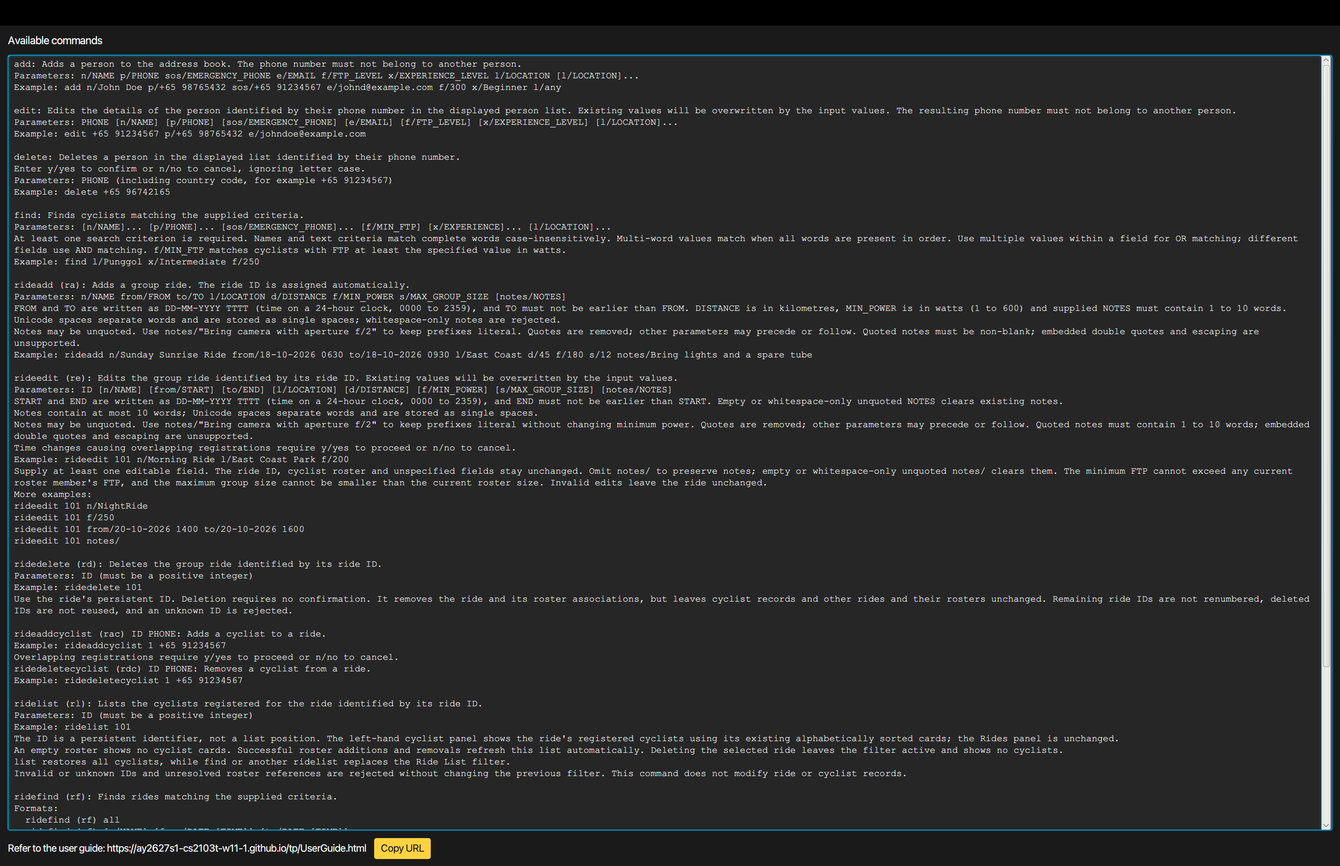
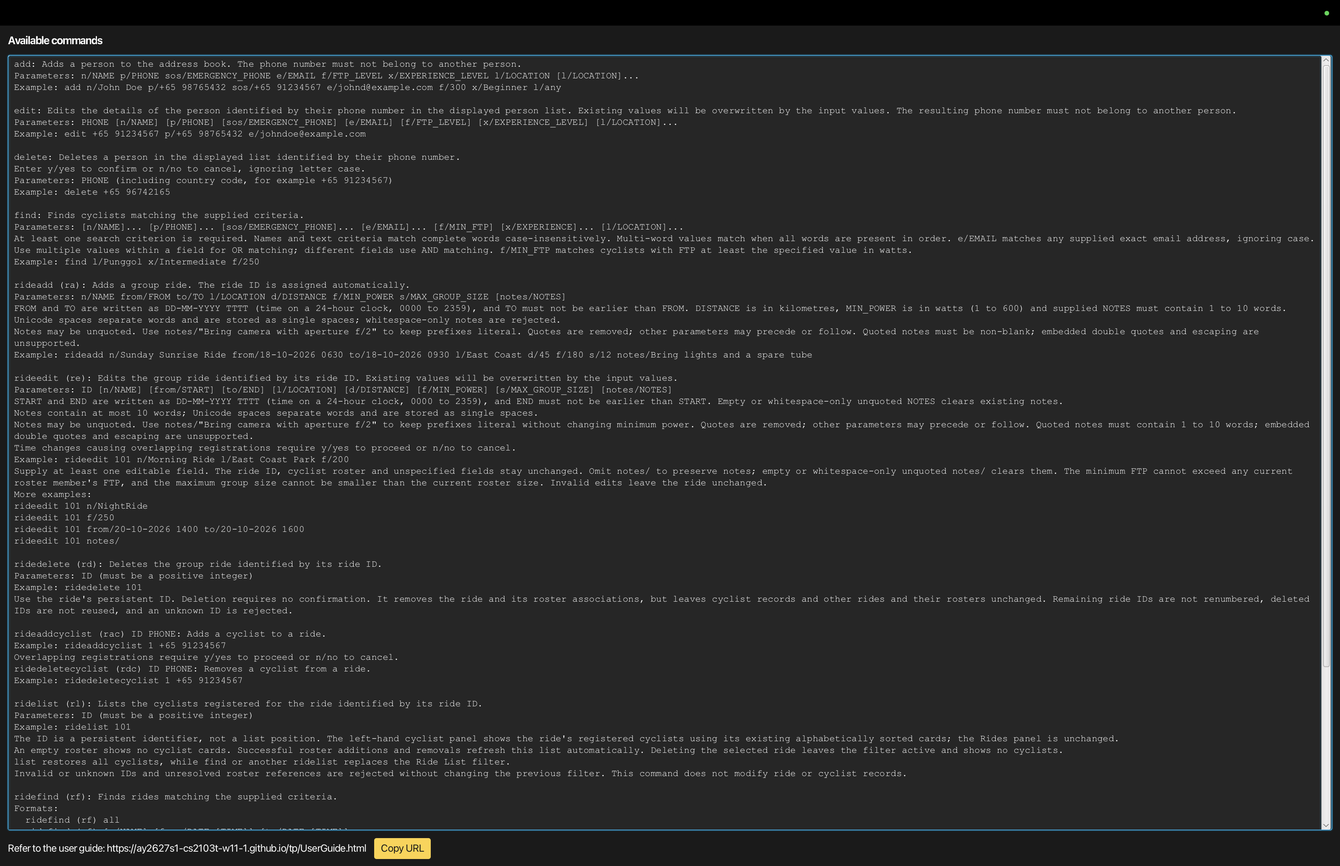
Align User Guide with current app behaviour
The User Guide describes names as rejecting all punctuation and gives
outdated guidance for oversized ride IDs. The distinction between
listing rides and viewing their cyclists also needs clearer emphasis.

These gaps can cause organisers to avoid supported inputs or expect
different results from the commands they enter.

Document accepted name punctuation, naming alternatives and location
restrictions. Clarify complete-word searches, repeated spaces and the
different treatment of leading zeroes in phone numbers.

Explain ridefind all separately from ridelist, and update the ride ID
error guidance. Add a dedicated Coming soon section that distinguishes
planned ride searches from features available in this release.

Refresh the Help screenshots to include email searching and retain
full-size links. Keep explanations task-focused, with concrete examples
and practical alternatives for unsupported inputs.

diff --git a/docs/UserGuide.md b/docs/UserGuide.md
@@ -53,6 +53,7 @@ You do not need programming experience. Start with [Quick start](#quick-start), 
 Type each command in the command box and press **Enter**.
 
 1. Enter `list`. All saved cyclists appear in alphabetical order.
+1. Enter `ridefind all`. All saved group rides appear in the Rides panel.
 1. Enter `find n/Alex`. With the sample data, only Alex Tan appears. This hides other cyclists; it does not delete them.
 1. Enter `list` again to bring everyone back.
 1. Enter `help` to open the Full help window. Close that window to return to the main window.
@@ -99,6 +100,8 @@ they have passed; Cyclique allows past rides.
 
 A **filter** hides records that do not match your search. It does not remove them from Cyclique.
 The two panels have separate filters: `list` does not reset a ride search.
+To list **all group rides**, use `ridefind all` (or `rf all`). `ridelist ID` shows the **cyclists on one ride**
+instead; it does not list group rides.
 
 Cyclists are sorted alphabetically by full name, ignoring case. Names that are identical ignoring case
 keep their stored order. Card indexes change with the displayed list; use the cyclist's **own phone number**
@@ -111,6 +114,23 @@ even after deleting rides, clearing data or restarting Cyclique.
 A **roster** is a ride's list of registered cyclists. It shows their own phone numbers.
 **SOS** on a cyclist card means their emergency contact number. **FTP** (Functional Threshold Power)
 is the cyclist's power level in watts; Cyclique compares it with a ride's minimum power before registration.
+
+### Choose names and locations
+
+**Cyclist names do not have to be legal names.** Use the name the cyclist wants your group to use.
+Names can contain Unicode letters (including accented letters), digits and spaces. A straight hyphen
+(`-`) or apostrophe (`'`) is allowed between letters or digits, as in `Tan Wei-Ling` or `John O'Connor`.
+Do not put either character at the start or end, beside a space, or next to another hyphen or apostrophe.
+Use a straight apostrophe (`'`), rather than a curly one (`’`).
+
+Cyclist names and ride names follow the **same rules**. Slashes (`/`), full stops (`.`) and other
+punctuation are not accepted. For example, you cannot enter `s/o` as part of a cyclist's name;
+choose a name they are comfortable using without the slash. For a ride, use `Punggol-Seletar Loop`
+instead of `Punggol/Seletar Loop`.
+
+**Locations** accept English letters (`A–Z`, `a–z`), digits, spaces, straight hyphens and straight apostrophes.
+The `@` character is not accepted: use `Hub at Punggol`, rather than `Hub @ Punggol`.
+These rules apply when adding, editing and searching.
 
 ## Plan a ride and register a cyclist
 
@@ -191,16 +211,17 @@ Enter `help`, press **F1**, or choose **Help → Full help...**. The Full help w
 command's format, fields and an example. The result box shows `Opened help window.`
 If the window is already open, Cyclique brings it into focus.
 
-<a href="images/helpMessage.png"><img src="images/helpMessage.png" alt="Full help window showing command formats, ride command aliases and the Cyclique guide URL with a Copy URL button" /></a>
+<a href="images/helpMessage.png"><img src="images/helpMessage.png" alt="Full help window with a scrollable command list, including email search, and the guide URL and Copy URL button below it" /></a>
 
-*Use **Copy URL** at the bottom of the window to copy the link to this guide.
-Select the screenshot to view it at full resolution.*
+*Scroll through the command list for more help. Use **Copy URL** below the list to copy the link to this guide.
+Select the screenshot to open it at full size.*
 
 You can also choose a command from the **Help** menu to start filling it in.
 
-![Help menu showing command formats, ride command aliases and Full help](images/helpDropdown.png)
+<a href="images/helpDropdown.png"><img src="images/helpDropdown.png" alt="Help menu showing command formats, including the email-search field, ride command aliases and Full help" /></a>
 
-*Selecting a menu entry puts the command in the command box; it does not run it.*
+*Selecting a menu entry puts the command in the command box; it does not run it.
+Select the screenshot to open it at full size.*
 
 For `add` and `rideadd`, the required prefixes are filled in too. Type your values after them,
 add any optional fields you need, then press **Enter**. For roster commands, type the ride ID
@@ -214,13 +235,13 @@ Adds a cyclist to Cyclique.
 
 Field | Meaning and rules
 ------|------------------
-`n/NAME` | The cyclist's name. It may contain Unicode letters (including accented letters), digits and spaces, with combining marks attached to letters or digits. It must start with a letter or digit; blank names and punctuation are rejected. For example, `José Tan` is accepted.
-`p/PHONE` | A unique phone number using a `+`, a 1–3 digit country code, one space and at least 3 digits, such as `+65 98765432`. Parentheses, hyphens and blank values are rejected. Leading zeros in the country code are ignored and removed when the number is saved, so `+065 98765432` is the same number as `+65 98765432`. The country code must contain a non-zero digit, so `+0 000` and `+00 98765432` are rejected. Leading zeros in the number are kept, because they can be significant: `+39 0612345678` is saved as typed and is a different number from `+39 612345678`. The number must not belong to another cyclist, including cyclists hidden by a filter.
+`n/NAME` | The name the cyclist wants your group to use; a legal name is not required. Start with a letter or digit. Letters (including accented letters), digits and spaces are allowed, with straight hyphens and apostrophes joining letters or digits. For example, `José Tan`, `Tan Wei-Ling` and `John O'Connor` are accepted. See [Choose names and locations](#choose-names-and-locations) for restrictions, including `/`.
+`p/PHONE` | A unique phone number using `+`, a 1–3 digit country code, exactly one space and at least 3 digits, such as `+65 98765432`. The country code must contain a non-zero digit. Parentheses, hyphens and blank values are rejected. See [Phone numbers and leading zeroes](#phone-numbers-and-leading-zeroes) below.
 `sos/EMERGENCY_PHONE` | The cyclist's emergency contact phone number, displayed as **SOS** on their card. Required for new cyclists. It follows the same format as `p/` but may be shared by multiple cyclists and does not determine duplicate cyclists.
 `e/EMAIL` | A valid email address, such as `johnd@example.com`. It must be unique across all cyclists, including those hidden by a filter; comparisons ignore letter case.
 `f/FTP_LEVEL` | Functional Threshold Power (FTP): a whole number from 1 to 600, in watts.
 `x/EXPERIENCE_LEVEL` | `Beginner`, `Intermediate` or `Advanced`, ignoring case.
-`l/LOCATION` | A non-blank preferred cycling location containing only English letters (`A–Z`, `a–z`), digits, spaces, hyphens or apostrophes. At least one is required. Repeat `l/` for multiple locations, or use `l/any` alone to indicate no location preference. `any` ignores case and cannot be combined with another location.
+`l/LOCATION` | A non-blank preferred cycling location containing only English letters (`A–Z`, `a–z`), digits, spaces, straight hyphens or straight apostrophes. `@` and `/` are not accepted. At least one is required. Repeat `l/` for multiple locations, or use `l/any` alone to indicate no location preference. `any` ignores case and cannot be combined with another location.
 
 All fields are required. Only `l/` may be repeated; repeating any other prefix is rejected.
 Prefixes can be entered in any order. Cyclists may share a name or emergency contact number,
@@ -242,6 +263,22 @@ list, places the new card in alphabetical order and saves the data automatically
 Missing required fields, blank values, invalid values and repeated single-valued prefixes are rejected.
 A phone or email conflict reports `Another cyclist already has this phone number or email.`
 These rejected commands leave existing records unchanged and do not add a cyclist.
+
+#### Phone numbers and leading zeroes
+
+Enter the cyclist's own number accurately: it identifies them in `edit`, `delete` and roster commands.
+Cyclique checks its format, but does not check whether the number is assigned or in use.
+
+| What you enter | How Cyclique treats it |
+| --- | --- |
+| `+065 91234561` | Saved as `+65 91234561`. Zeroes at the start of the country code are removed. If Alex already has that number, adding another cyclist with it is rejected. |
+| `+65 091234561` | The zero after the space is kept. This is a different number from `+65 91234561`; do not add or remove digits when identifying a cyclist. |
+| `+39 0612345678` | Saved as typed. A leading zero in the number itself can be significant. |
+| `+0 000` or `+00 98765432` | Rejected because the country code contains only zeroes. |
+
+The same rules apply to SOS numbers and phone numbers used in searches or roster commands.
+A cyclist's own phone must be unique across all saved cyclists, including those hidden by a filter.
+SOS numbers may be shared.
 
 ### Listing all cyclists: `list`
 
@@ -317,7 +354,7 @@ Find cyclists by name, phone number, email address, emergency contact number or 
 Field | Meaning and rules
 ------|------------------
 `n/NAME_KEYWORD` | A single name word or multiple complete name words. Matching is case-insensitive and each supplied word must appear as a complete word in the same order; `n/hans` matches `Hans` but `n/Han` does not. A multi-word value such as `n/John Doe` matches names containing `John` followed by `Doe`, even when other words appear between them. Hyphens and apostrophes separate words, so `n/Ling` and `n/Wei-Ling` both match `Tan Wei-Ling`, and `n/Connor` and `n/O'Connor` both match `John O'Connor`; `n/WeiLing` does not.
-`p/PHONE` | A complete phone number using a `+`, a 1–3 digit country code, one space and at least 3 digits. Matching is exact, ignoring leading zeros in the country code; `p/+65 963` does not match `+65 96320842`, but `p/+065 96320842` does.
+`p/PHONE` | A complete phone number using a `+`, a 1–3 digit country code, one space and at least 3 digits. Matching is exact, ignoring leading zeroes in the country code; `p/+65 963` does not match `+65 96320842`, but `p/+065 96320842` does.
 `sos/EMERGENCY_PHONE` | A complete emergency contact number using the same validation and exact matching as `p/`. Only cyclists with an emergency number matching the supplied value are shown. Cyclists whose emergency number is missing or different are not shown.
 `e/EMAIL` | An exact email address. Matching ignores letter case, so `e/ALICE@EXAMPLE.COM` matches a stored `alice@example.com`. Repeat `e/` to search for multiple email addresses; a cyclist matches if their email matches any supplied address. Invalid email addresses are rejected.
 `f/MIN_FTP` | A whole number from 1 to 600, inclusive. Matches cyclists whose FTP is greater than or equal to the supplied value in watts; both `f/1` and `f/600` are valid.
@@ -328,6 +365,9 @@ At least one criterion is required. Each prefix may be repeated except `f/`, whi
 within the same field use `OR`, while different fields use `AND`; for example, `find n/Hans n/Bo f/250` matches
 cyclists named `Hans` or `Bo` whose FTP is at least 250 W. Prefix order does not matter. Text after a prefix belongs
 to that field until the next recognised prefix, so full names and locations containing spaces can be entered normally.
+
+Name and location searches ignore repeated spaces between words. They do not require the words to be
+consecutive: `find n/John Doe` also matches `John Wei Doe`. The original name is kept when saved.
 
 The command filters only the displayed cyclist list and does not change saved records. Matching cyclists remain in
 alphabetical order, ignoring case. The result message reports how many cyclists match; an empty result is valid and
@@ -365,7 +405,7 @@ Deletes a cyclist only after you check their details and confirm in the command 
 
 **Format:** `delete PHONE`, then enter a separate confirmation or cancellation reply.
 
-* Use the cyclist's own complete phone number, including country code and exactly one space, for example `+65 98765432`. The country code contains 1–3 digits; the number after the space contains at least 3 digits. Leading zeros in the country code are ignored, so `+065 98765432` identifies the same cyclist as `+65 98765432`; leading zeros in the number are part of the number. Do not use a card index or the `p/` prefix.
+* Use the cyclist's own complete phone number, including country code and exactly one space, for example `+65 98765432`. The country code contains 1–3 digits; the number after the space contains at least 3 digits. Leading zeroes in the country code are ignored, so `+065 98765432` identifies the same cyclist as `+65 98765432`; leading zeroes in the number are part of the number. Do not use a card index or the `p/` prefix.
 * A malformed target reports the specific phone-validation error; omitting the target reports the command usage.
 * The number must identify exactly one cyclist in the **displayed list**. A cyclist hidden by a filter cannot be deleted; use `list` to show all cyclists first. Multiple displayed matches are rejected.
 * The result box shows `Delete this cyclist?` followed by the target's details, including their emergency number, and warns `This also removes them from all ride rosters.` No cyclist, roster or saved data changes at this stage.
@@ -421,10 +461,10 @@ Adds a group ride that an organiser plans to lead.
 
 Field | Meaning and rules
 ------|------------------
-`n/NAME` | The name of the ride. Unicode letters (including accented letters), digits and spaces, with combining marks attached to letters or digits. It must start with a letter or digit; blank names and punctuation are rejected.
+`n/NAME` | A ride name following the [same rules as cyclist names](#choose-names-and-locations). `Punggol-Seletar Loop` and `Mother's Day Ride` are accepted. Slashes (`/`) and full stops (`.`) are not accepted; do not use a leading, trailing or repeated hyphen or apostrophe.
 `from/FROM` | When the ride starts, written as `DD-MM-YYYY TTTT` (day-month-year, followed by exactly one space and the time). `TTTT` uses the 24-hour clock from `0000` to `2359`, for example `25-10-2026 0630`. Both the date and time are required. The date must be a real calendar date, including the correct leap-year rules.
 `to/TO` | When the ride ends, in the same format as `from/`. It must not be earlier than `from/` (the same time is allowed).
-`l/LOCATION` | One non-blank location. English letters (`A–Z`, `a–z`), digits (`0–9`), spaces, hyphens and apostrophes only.
+`l/LOCATION` | One non-blank location. English letters (`A–Z`, `a–z`), digits (`0–9`), spaces, straight hyphens and straight apostrophes only. Use `Hub at Punggol`, not `Hub @ Punggol`; `@` and `/` are not accepted.
 `d/DISTANCE` | The distance in kilometres, from `0.01` to `999999.99`. Use 1–6 digits before the decimal point and, optionally, 1–2 digits after it, such as `45` or `45.5`.
 `f/MIN_POWER` | The minimum power a cyclist needs to join, in watts. Use 1–3 digits representing a whole number from 1 to 600, the same range as a cyclist's FTP.
 `s/MAX_GROUP_SIZE` | The most cyclists that can join. Use 1–9 digits representing a whole number from 1 to 999999999.
@@ -509,27 +549,44 @@ To clear existing notes, use `rideedit ID notes/` without quotes.
 
 These rejected commands add no ride and consume no ID. In unquoted values, unsupported prefix-like text is not checked separately and becomes part of the preceding value (or the text before the first prefix). For example, `notes/Bring lights q/test` can be accepted as notes containing `q/test`; it is not a separate parameter. Unquoted text after a recognised prefix belongs to that value until the next recognised prefix.
 
+### Listing all group rides: `ridefind all`
+
+Show every saved ride in the right-hand Rides panel, including rides hidden by an earlier search.
+
+**Format:** `ridefind all` (or `rf all`)
+
+Enter the command and press **Enter**. The result box reports the number of rides listed, for example
+`2 ride(s) listed!` with the fresh sample data. The cyclist panel and all saved records stay unchanged.
+
+Use [`ridelist ID`](#listing-cyclists-registered-for-a-ride-ridelist) when you want the cyclists registered
+for one ride, rather than the list of rides.
+
 ### Finding group rides: `ridefind`
 
 Finds rides matching one or more supplied criteria and displays the matching rides in the Rides panel.
 
 **Format:** `ridefind [n/NAME] [from/DATE [TIME]] [to/DATE [TIME]] [l/LOCATION] [d/DISTANCE] [f/MIN_POWER] [s/MAX_GROUP_SIZE] [notes/NOTES]`
 
-To list every ride, use `ridefind all`.
+To list every ride without search criteria, use [`ridefind all`](#listing-all-group-rides-ridefind-all).
 
 After `ridefind`, at least one criterion is required; you do not need to supply every field. Alternatively, enter
 `ridefind all` to clear the current ride filter and display every saved ride. Different fields use AND matching, so a
-ride must satisfy every field supplied.
+ride must satisfy every field supplied. For example, `ridefind n/Sunday l/East` requires a matching
+name **and** location. Use each prefix only once; `ridefind n/Sunday n/Saturday` is rejected.
+[Searching several values for one ride field is planned](#coming-soon).
+
 The fields are matched as follows:
 
 * `n/NAME` matches complete words in the ride name in the supplied order, ignoring case. For example,
   `ridefind n/Sunday` matches `Sunday Sunrise Ride`, but `ridefind n/Ride Sunday` does not.
   Hyphens and apostrophes separate words, so `ridefind n/Wei-Ling` and `ridefind n/Wei` both match
-  `Wei-Ling's Ride`, and `ridefind n/Mother` matches `Mother's Day Ride`. `ridefind n/WeiLing` does not.
+  `Wei-Ling's Ride`, and `ridefind n/Mother` matches `Mother's Day Ride`.
+  Fragments such as `n/Lin` and joined spellings such as `n/WeiLing` do not match `Wei-Ling's Ride`.
 * `from/` matches rides starting at or after the supplied date and time.
 * `to/` matches rides ending at or before the supplied date and time.
 * `l/LOCATION` matches complete words in the ride location in the supplied order, ignoring case. Hyphens and
-  apostrophes separate words here too, so `ridefind l/Ris` matches a ride at `Pasir-Ris Park`.
+  apostrophes separate words here too: `ridefind l/East` matches `East Coast Park`, and
+  `ridefind l/Ris` matches `Pasir-Ris Park`. `l/Eas` does not match `East Coast Park`.
 * `d/DISTANCE` and `s/MAX_GROUP_SIZE` use exact numeric matching.
 * `f/MIN_POWER` matches rides whose minimum power is greater than or equal to the supplied value.
 * `notes/NOTES` matches selected complete words from the stored notes, ignoring case. The words must appear in their
@@ -538,8 +595,11 @@ The fields are matched as follows:
   word does not prevent a match, including hyphens, apostrophes and other punctuation. For example,
   `notes/lights` matches `Bring lights!`, and `notes/cyclist` matches `Check the cyclist's helmet`. Rides without
   notes do not match a notes criterion.
-  A punctuation mark can also be searched when it appears as a standalone token, such as `notes/!` for notes
-  containing `Hi ! Bye`; punctuation attached to a word is not searched as a separate token.
+
+You do not need to reproduce repeated spaces in names or locations. For example,
+`ridefind n/morning loop` matches a saved name `Morning  Loop` (with two spaces).
+Words can have other words between them, so `ridefind n/Sunday Ride` matches `Sunday Sunrise Ride`.
+The original name and its spacing are kept when saved.
 
 Use straight or paired curly double quotes to search notes containing recognised prefixes:
 `ridefind notes/"aperture f/2"` or `rf notes/“aperture f/2”`. The outer quotes are removed;
@@ -556,11 +616,16 @@ Both bounds are inclusive. Each prefix can be used only once. Distances are posi
 
 The command updates only the displayed ride list; it does not change or delete saved rides. If no ride matches, the Rides panel is empty and the result message reports `0 ride(s) listed!`. Invalid criteria are rejected without changing the current ride filter.
 
-**Examples** (using the sample rides)
+**Examples**
+
+The sample-data examples work after a fresh launch. Examples needing extra rides say what to add first.
 
 | Your goal | Command and result |
 | --- | --- |
-| Find a ride by its full name | `ridefind n/Sunday Sunrise Ride` shows Sunday Sunrise Ride. |
+| Find a ride by one complete name word | `ridefind n/Sunday` shows the sample Sunday Sunrise Ride. `ridefind n/Sunday Sunrise Ride` still works. |
+| Find a ride by one location word | `ridefind l/East` shows the sample Sunday Sunrise Ride at East Coast Park. |
+| Combine a name and location | `ridefind n/Sunday l/East` requires both fields to match. |
+| Ignore repeated spaces | `ridefind n/morning loop` finds `Morning  Loop`, if you have added a ride with that name. |
 | Find a ride by part of a hyphenated name | `ridefind n/Wei` shows a ride named `Wei-Ling's Ride`, if you have added one. |
 | Look for a reminder | `ridefind notes/lights` shows rides whose notes contain the complete word `lights`, including Sunday Sunrise Ride. |
 | Find notes containing selected words | `ridefind notes/"aperture f/2"` shows rides whose notes contain those words in order, if you have added one. |
@@ -626,7 +691,9 @@ Continuing the separate Ride 3 screenshot walkthrough from [`rideadd`](#adding-a
 
 **If something goes wrong**
 
-* A missing, zero, negative, malformed, overflowing or extra ID argument: `Invalid command format.` followed by the command usage.
+* If you leave out the ride ID, enter `0`, a negative value or extra text, Cyclique shows the command usage.
+* An ID above `2147483647`, such as `rideedit 2147483648 n/Changed`, reports
+  `Ride ID should be a positive whole number no larger than 2147483647.` Use the ID shown on the ride card.
 * An unknown ID, for example `rideedit 999999 n/Morning Ride` when that ID is absent: `Ride with ID 999999 cannot be found.`
 * No editable field after the ID: `At least one field to edit must be provided.`
 * An invalid field value, which reports the same constraint as `rideadd`.
@@ -666,7 +733,15 @@ remain unchanged. Remaining ride IDs are not renumbered, and deleted IDs are nev
 
 The current `ridefind` filter is retained. If a [`ridelist`](#listing-cyclists-registered-for-a-ride-ridelist) selection is showing the deleted ride's cyclists, the left-hand panel becomes empty and does not switch to another ride. Enter `list` to display all saved cyclists again. Other cyclist filters are retained.
 
-A missing, malformed, non-positive, overflowing or additional argument produces `Invalid command format.` followed by the command usage. For example, `ridedelete 1 extra` is invalid. An unknown ID of 1 reports `Ride with ID 1 cannot be found.` Input or missing-ride errors do not change ride or cyclist data, filters or the next ride ID.
+**If something goes wrong**
+
+* If you leave out the ID or enter extra text, such as `ridedelete 1 extra`, Cyclique shows the command usage.
+  Zero, negative values, signs and decimal points are not accepted.
+* An ID above `2147483647`, such as `ridedelete 2147483648`, reports
+  `Ride ID should be a positive whole number no larger than 2147483647.`
+* A valid ID with no saved ride, such as `2147483647` when it has not been assigned, reports that the ride cannot be found.
+
+These errors do not delete anything or change the current filters or next ride ID.
 
 ### Adding a cyclist to a ride: `rideaddcyclist`
 
@@ -728,7 +803,9 @@ To try registration step by step, follow [Plan a ride and register a cyclist](#p
 
 ### Listing cyclists registered for a ride: `ridelist`
 
-Shows the cyclists registered for one ride in the left-hand cyclist panel, so that you can see who is on that ride. No ride or cyclist records are changed.
+Shows the cyclists registered for one ride in the left-hand cyclist panel.
+To display all **group rides** instead, enter [`ridefind all`](#listing-all-group-rides-ridefind-all).
+Neither command changes your saved records.
 
 **Format:** `ridelist ID`
 
@@ -749,7 +826,9 @@ Example: `ridelist 1` (use your ride's actual ID)
 **If something goes wrong**
 
 * An unknown ride ID, such as `999999`, reports `Ride with ID 999999 cannot be found.`
-* A missing, malformed, zero, negative, overflowing or extra argument produces the invalid-command-format message with the command usage.
+* If you leave out the ID or enter zero, a negative value or extra text, Cyclique shows the command usage.
+* An ID above `2147483647`, such as `ridelist 2147483648`, reports
+  `Ride ID should be a positive whole number no larger than 2147483647.`
 * If a phone number on the roster no longer matches any cyclist, Cyclique reports `Cannot list ride: a registered cyclist cannot be found.`
 
 After any of these errors, the previous filter and all ride and cyclist data stay unchanged.
@@ -818,17 +897,17 @@ Older cyclist records without an emergency number load with **SOS: Not provided*
 Use `edit PHONE sos/EMERGENCY_PHONE` to add one. Editing another field keeps the number absent.
 Data files from before rides were supported load with no rides.
 
-Cyclique now treats a country code with leading zeros as the same country code, so `+065 91234561` and
+Cyclique now treats a country code with leading zeroes as the same country code, so `+065 91234561` and
 `+65 91234561` are the same phone number. Most older files are unaffected, but a file will not load if it contains:
 
-* a cyclist's phone or SOS number whose country code is all zeros, such as `+0 123` or `+00 98765432`; or
-* two cyclists whose phone numbers differ only by zeros at the start of the country code, such as
+* a cyclist's phone or SOS number whose country code is all zeroes, such as `+0 123` or `+00 98765432`; or
+* two cyclists whose phone numbers differ only by zeroes at the start of the country code, such as
   `+65 91234561` and `+065 91234561`.
 
 Cyclique shows the fatal error dialog described in [Editing the data file](#editing-the-data-file) and does not
 change the file. To fix it, back up the file, then edit a copy: replace each all-zero country code with the correct
 one, and for two cyclists with the same number, correct the wrong number or delete the duplicate record, so that each
-`phone` is unique. Leading zeros in the number itself, such as `+65 00000000` or `+39 0612345678`, still load
+`phone` is unique. Leading zeroes in the number itself, such as `+65 00000000` or `+39 0612345678`, still load
 unchanged. Replace the original with the corrected copy and relaunch Cyclique.
 
 ### Editing the data file
@@ -852,12 +931,6 @@ Blank notes or notes exceeding ten words also prevent loading, including notes w
 Cyclique does not discard or shorten them for you.
 
 ## Troubleshooting and FAQ
-
-### Coming soon
-
-Future versions may allow you to search for a specific cyclist's phone number across all ride rosters.
-Currently, use `ridelist ID` to display the cyclists registered for a particular ride and check the roster,
-or use `ridefind all` to display every ride and inspect the roster entries visually.
 
 | Problem | What to do |
 | --- | --- |
@@ -884,6 +957,15 @@ restore a backup made before the deletion.
 Include the command you entered, what you expected and what happened. Use fictional contact details
 and remove personal information from screenshots or data files before sharing them.
 
+## Coming soon
+
+The following improvements are planned for future versions and **are not available in this release**.
+
+| Planned improvement | What you can do now |
+| --- | --- |
+| **Search several values for one ride field.** For example, find Sunday or Saturday rides in one search. | Each `ridefind` prefix can be used only once, so `ridefind n/Sunday n/Saturday` is rejected. Run `ridefind n/Sunday` and `ridefind n/Saturday` separately; each search replaces the previous results. Cyclist `find` already supports repeated name fields. |
+| **Find rides by a cyclist's phone number.** Show all rides that include that cyclist. | Enter `ridefind all` and check the phone numbers under **Roster** on each ride card. Use `ridelist ID` to see the cyclist details for one ride. Phone-number searches are not supported by `ridefind` yet. |
+
 ## Command summary
 
 Use a full command name **or** its alias, for example `ridefind all` or `rf all`.
@@ -902,7 +984,8 @@ Task | Format and example
 [Help](#viewing-help-help) | `help`<br> or press `F1`, or choose **Help → Full help...**
 [Exit](#exiting-the-program-exit) | `exit`
 [Add ride](#adding-a-group-ride-rideadd) | `rideadd n/NAME from/FROM to/TO l/LOCATION d/DISTANCE f/MIN_POWER s/MAX_GROUP_SIZE [notes/NOTES]`<br> e.g., `rideadd n/Sunday Sunrise Ride from/25-10-2026 0630 to/25-10-2026 0930 l/East Coast Park d/45 f/180 s/3 notes/Bring lights and a spare tube`
-[Find rides](#finding-group-rides-ridefind) | `ridefind all`<br>`ridefind [n/NAME] [from/DATE [TIME]] [to/DATE [TIME]] [l/LOCATION] [d/DISTANCE] [f/MIN_POWER] [s/MAX_GROUP_SIZE] [notes/NOTES]`<br> e.g., `ridefind all`, `ridefind from/25-10-2026 to/25-10-2026 f/180`
+[List all rides](#listing-all-group-rides-ridefind-all) | `ridefind all` or `rf all`
+[Find rides](#finding-group-rides-ridefind) | `ridefind [n/NAME] [from/DATE [TIME]] [to/DATE [TIME]] [l/LOCATION] [d/DISTANCE] [f/MIN_POWER] [s/MAX_GROUP_SIZE] [notes/NOTES]`<br> e.g., `ridefind n/Sunday l/East`, `ridefind notes/"aperture f/2"`
 [Edit ride](#editing-a-group-ride-rideedit) | `rideedit ID [n/NAME] [from/START] [to/END] [l/LOCATION] [d/DISTANCE] [f/MIN_POWER] [s/MAX_GROUP_SIZE] [notes/NOTES]`<br> e.g., `rideedit 1 l/Marina Bay notes/Meet at the waterfront`, `rideedit 1 notes/` (use the actual ride ID)
 [Delete ride](#deleting-a-group-ride-ridedelete) | `ridedelete ID`<br> e.g., `ridedelete 1` (use the actual ride ID; no confirmation)
 [Register cyclist](#adding-a-cyclist-to-a-ride-rideaddcyclist) | `rideaddcyclist ID PHONE`<br> e.g., `rideaddcyclist 1 +65 91234561`
